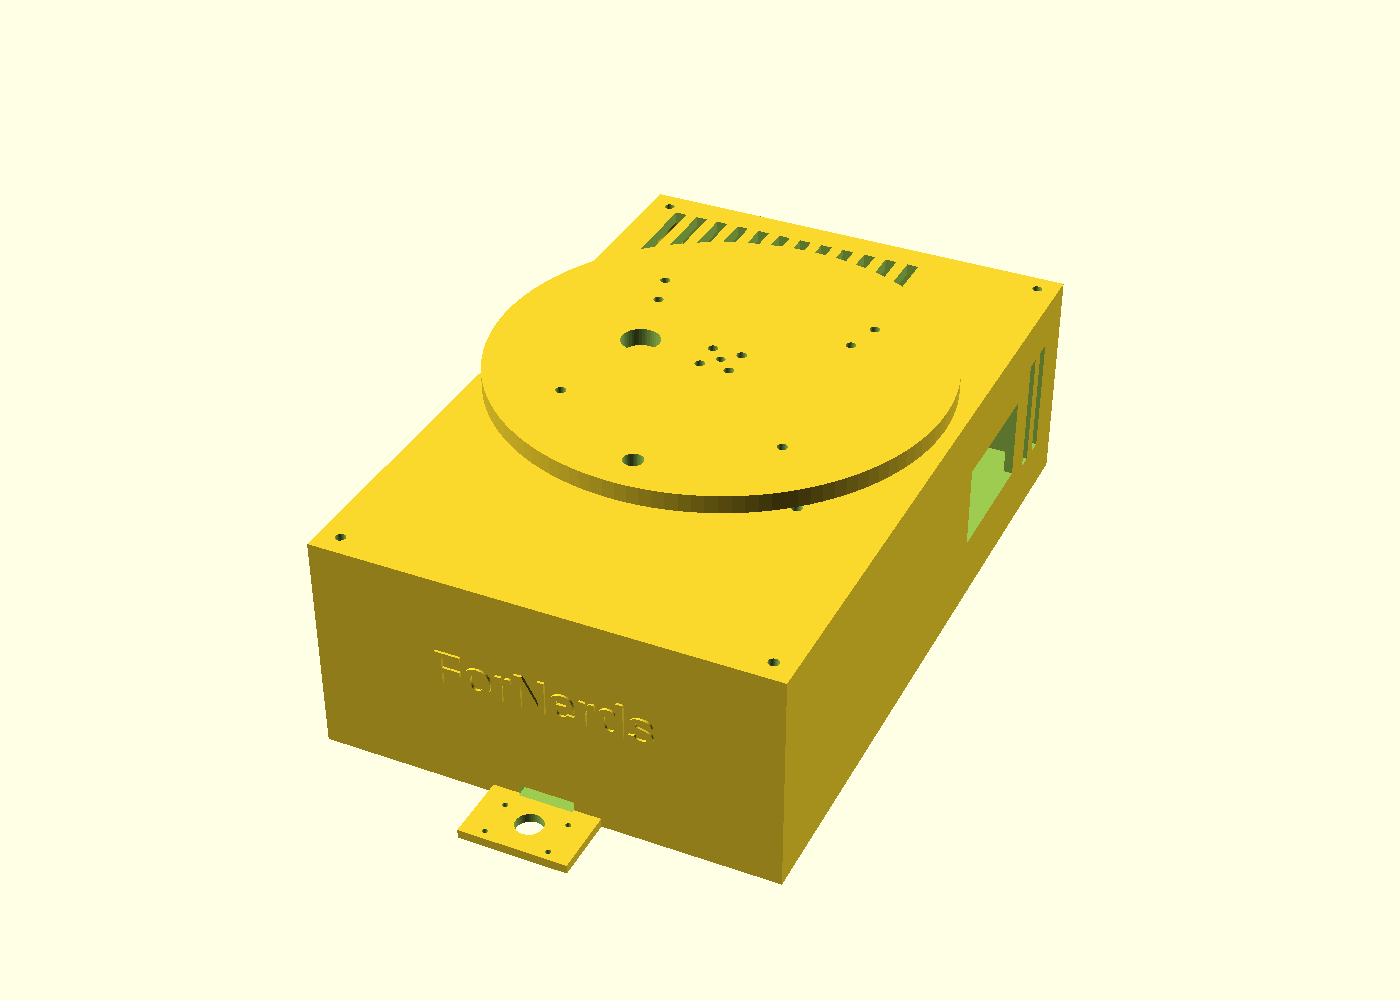
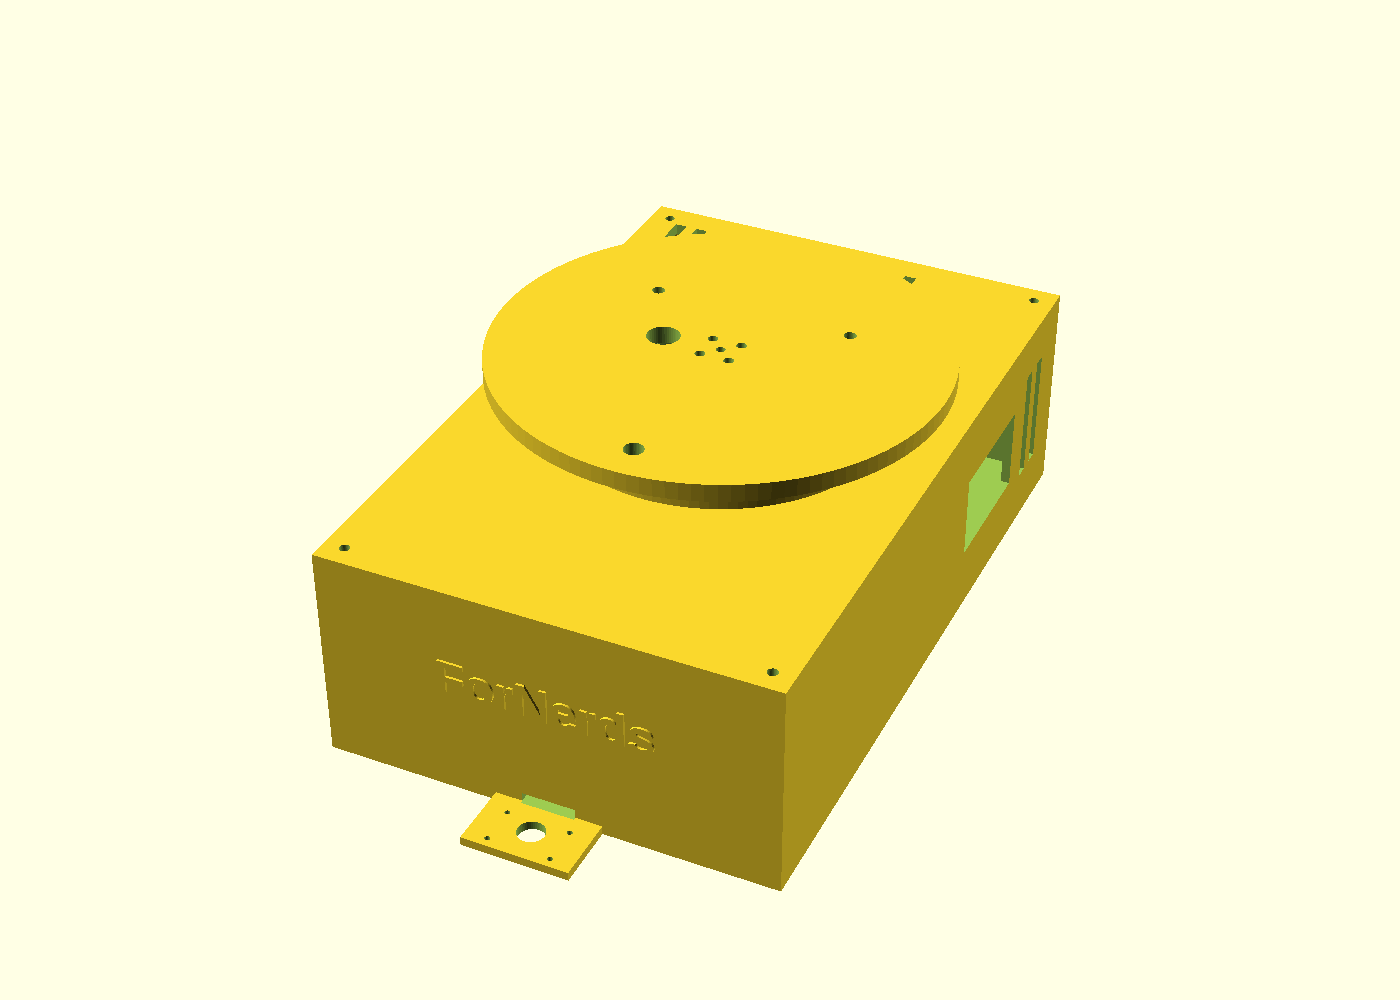
케이스: 회전 베어링 6816-2RS로 — 두 링 위아래 고정(받침+누름 링 / 턱+스냅 허브), 끼움 시험 링
- 안쪽 배치 축소: 배선 슬롯 r14~26, 스토퍼 r32, 허브 벽 r37~40
- 혼 연결 기둥 15.7(M3x25), SO-101 구멍은 열압입 인서트
- 부품 간 교집합 검사로 겹침 없음 확인

diff --git a/hardware_design/case/README.md b/hardware_design/case/README.md
@@ -9,8 +9,10 @@
 | 부품 | 들어가는 것 |
 |---|---|
 | `tray` | 151.9 × 236.6 × 70. **앞=아두이노**(+바닥 카메라 선반), 그 뒤 **배터리(세움)**, 가운데 뚜껑 밑 서보, **뒤=젯슨**(밑에 벅부스트 2장, 오른쪽 벽에 전압·전류계 창, 단자는 뒷벽). 바닥이 차체 상판의 **M3 50×30 패턴 두 벌(중심 간격 166)**에 그대로 박힌다. 전면 "ForNerds" 양각 |
-| `lid` | 회전 베어링 하부 링 볼트, 밑에 STS3215 서보 걸이, 180° 배선 슬롯, 스토퍼 홈 |
-| `platform` | SO-101 베이스 구멍, Orbbec 1/4" 나사 자리, 혼까지 내려가는 연결 기둥(7.7, 혼 나사 M3×16), 베어링 상부 링, 스토퍼 핀 |
+| `lid` | 6816 바깥 링 받침(턱+벽), 밑에 STS3215 서보 걸이, 180° 배선 슬롯, 스토퍼 홈 |
+| `clamp` | 6816 바깥 링 누름 링 (M3×4) |
+| `platform` | SO-101 베이스 인서트 구멍, Orbbec 1/4" 나사 자리, 혼 연결 기둥(15.7), 안쪽 링 턱 + 스냅 허브, 스토퍼 핀 |
+| `fit_test` | 베어링 끼움 공차 시험 링 6개 — **이것부터 뽑는다** |
 
 ## 설계 판단 (바꾸기 전에 읽을 것)
 - **팔 무게는 베어링(레이지수잔, 구매품)이 받는다.** 팔을 뻗으면 서보 축에 굽힘 모멘트가
@@ -26,16 +28,21 @@
   젯슨 받침 높이는 `buck_parts_h`(판 위 가장 높은 부품)에서 계산된다 — 이 값을 재야 한다(지금 20).
   젯슨 NVMe 슬롯이 밑면이라 SSD를 갈 땐 젯슨을 들어내야 한다.
 
-## 레이지수잔(회전 베어링) 고르기
-| 조건 | 값 | 이유 |
+## 회전 베어링 = 6816-2RS (80 × 100 × 10, 얇은 깊은홈) — 2026-09-26 구매
+레이지수잔은 기울기 유격이 커서 뺐다(팔 끝 30cm에서 0.5°면 ~2.6mm). 5.5인치 제품은 안지름 64라 안쪽에 들어갈 자리도 없었다.
+
+**두 링을 위아래 모두 붙잡는다** — 끼움만으로는 팔을 뻗을 때 한쪽이 들린다(0.9kg×20cm ÷ Ø90 ≈ 양쪽 20N).
+| 링 | 아래 | 위 |
 |---|---|---|
-| 종류 | **강철 볼 · 원형 · "헤비 듀티"**, 두 링에 각각 나사 구멍 | 케이크 장식용 얇은 알루미늄 링은 볼이 플라스틱이고 기울기 유격이 커서 팔 끝이 흔들린다 |
-| 바깥지름 | **≤ 145** (5.5인치 ≈ 140 권장) | 뚜껑 폭 151.9 |
-| 안지름 | **≥ 90** | 안쪽에 혼(Ø20)·배선 슬롯(r 35)·스토퍼 홈(r 43)이 들어간다 |
-| 두께 | 낮을수록 (8~10) | 높아지면 혼 연결 기둥이 길어지고 팔이 올라간다 |
-- 작은 볼베어링(608ZZ·6800ZZ·627ZZ 등)은 안 된다 — 가운데로 배선이 못 지나가고 기울기 모멘트를 못 버틴다.
-- 사면: **바깥지름·안지름·두께·두 링의 볼트 원 지름과 구멍 수**를 재서 `brg_*`에 넣는다.
-- 손으로 윗판을 흔들어 기울기 유격을 본다. 0.5°면 팔 끝 30cm에서 ~2.6mm — 크면 얇은 깊은홈 베어링(6818ZZ, 90×115×13)을 프린트 받침에 끼우는 쪽으로.
+| 바깥 링 | 뚜껑 받침 턱(높이 3) | 누름 링 `clamp` (두께 2, M3 셀프탭 4개 — 회전판 올리기 **전에** 조인다) |
+| 안쪽 링 | 허브 끝 **스냅 걸쇠**(0.5 턱, 세로 홈 6개로 휜다 — 밀어 넣으면 딸깍) | 회전판 턱(높이 3) |
+
+- 뚜껑 윗면 → 회전판 밑면 = 16. 혼 연결 기둥 15.7 → **혼 나사 M3×25**.
+- 안쪽 배치(반지름): 혼 구멍 11.5 · 배선 슬롯 14~26 · 스토퍼 홈 29~35 · 허브 벽 37~40. 살은 모두 2.5mm 이상.
+- **조립 순서**: ① 서보를 뚜껑 밑 걸이에 ② 베어링을 받침에 눌러 넣고 누름 링 조임 ③ 혼을 서보에 ④ 회전판 허브를 안쪽 링에 밀어 넣어 걸쇠를 채움 — 이때 스토퍼 핀이 홈에 들어가게, 서보는 중앙(2048) ⑤ 혼 나사 4개를 위에서.
+- **끼움 공차는 프린터마다 다르다** → `part="fit_test"`(받침 +0.0/+0.2/+0.4, 허브 −0.2/−0.1/0.0, 돌기 수 = 순번)를 먼저 뽑아
+  베어링을 끼워 보고, 손으로 꽉 눌러 들어가는 것을 `brg_fit_od`·`brg_fit_id`에 넣는다.
+- SO-101 볼트 구멍(반지름 42)이 베어링 바로 위다 → 회전판에 **M3 열압입 인서트**를 박고, 나사는 판(6)을 넘지 않는 길이로.
 
 ## 회전 서보 = STS3215 C018 (12V · 1/345 · 30kg·cm) — 팔과 같은 것 (2026-09-26 구매)
 외형도([제조사](https://www.feetechrc.com/525603.html)): 몸체 45.23×24.73×35 · 출력축은 몸체 중심에서 12.5(가까운 끝에서 10.1) ·
@@ -61,11 +68,13 @@
 ```
 openscad -D 'part="tray"'     -o tray.stl     tomato_case.scad
 openscad -D 'part="lid"'      -o lid.stl      tomato_case.scad
+openscad -D 'part="clamp"'    -o clamp.stl    tomato_case.scad
 openscad -D 'part="platform"' -o platform.stl tomato_case.scad
+openscad -D 'part="fit_test"' -o fit_test.stl tomato_case.scad
 ```
-- `lid`는 뒤집어서(서보 걸이가 위로) 출력.
+- `lid`는 뒤집어서(서보 걸이가 위로) 출력. `platform`도 뒤집어서(허브가 위로) — 허브 걸쇠 턱이 45° 비탈이라 받침 없이 된다.
 - 콘솔에 `⚠`가 뜨면 베드 초과·부품 겹침이다.
 
 ## 출력 전 실측 (scad의 `[실측]` 줄)
-베어링(구매 후) · 벅부스트 부품 높이 · 젯슨 캐리어 고정 구멍 위치(지금 86×58 추정) ·
+베어링 끼움 공차(`fit_test`) · 벅부스트 부품 높이 · 젯슨 캐리어 고정 구멍 위치(지금 86×58 추정) ·
 SO-101 나머지 두 구멍과 앞뒤 위치. 목록 = [`3D-parts-mapping.md`](../../docs/design/3D-parts-mapping.md) 끝.

diff --git a/docs/design/3D-parts-mapping.md b/docs/design/3D-parts-mapping.md
@@ -79,7 +79,7 @@
 - [x] 상판 가로 151.9 · 패턴 간격 166 · 방향(30 변 = 길이) · 배터리 43×57×134 · SO-101 두 구멍 67.5
 - [x] 벅부스트 76.6×45, 구멍 Ø3.5(가장자리 1.1 → 중심 2.85 안쪽) · 전압계 창 = BOTTOM 옆벽 44.7×28.2
 - [x] 회전 서보 STS3215 C018 — 제조사 외형도로 축 위치·혼 확정 · 젯슨 개발 키트 103×90.5×35 (SparkFun 공개 규격)
-- [ ] 레이지수잔 (구매 후: 바깥·안지름, 두께, 두 링 볼트 원·구멍 수)
+- [x] 회전 베어링 = 6816-2RS 80×100×10 (구매) — 케이스 반영, 끼움 공차만 `fit_test`로 정한다
 - [ ] 벅부스트 판 위 가장 높은 부품 높이 (`buck_parts_h`, 젯슨 받침 높이가 여기서 나온다)
 - [ ] 젯슨 캐리어 고정 구멍 **위치** (크기는 M3 — 위치는 공개 문서에 없다. 지금 86×58 추정)
 - [ ] SO-101 받침 나머지 구멍 2개 + 볼트 줄 ↔ 팔 회전축 앞뒤 거리(`so101_offset`)
